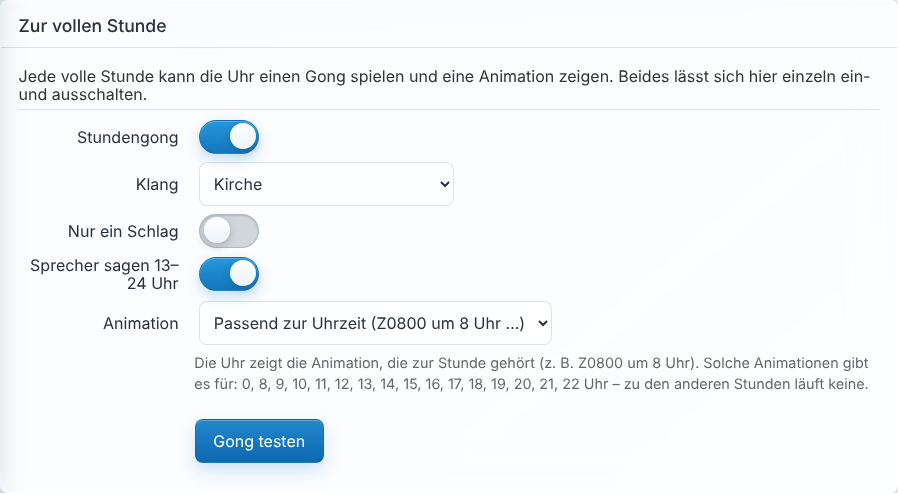
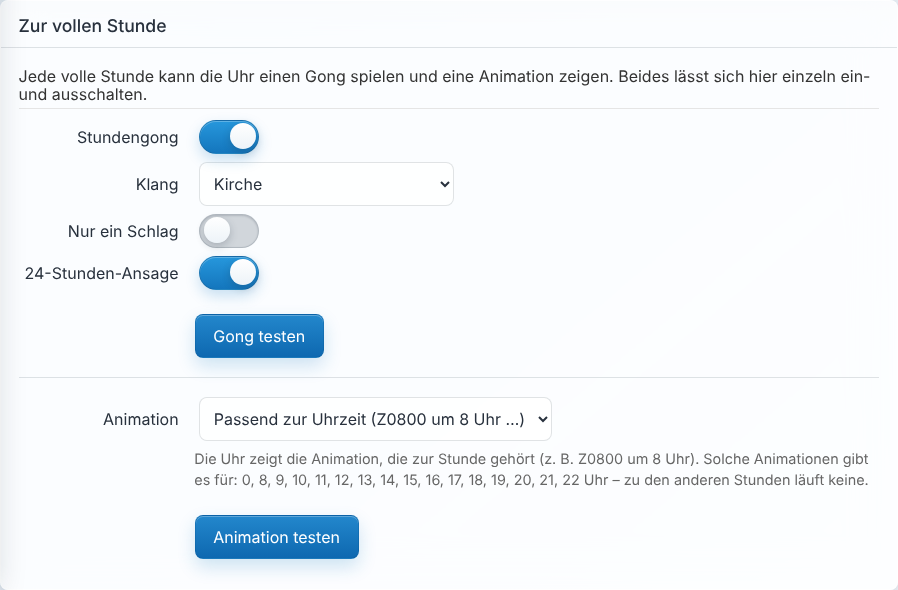
Web page: test button for the hour animation, explanations for preview and wording, nicer line breaks
- "Zur vollen Stunde": "Gong testen" directly below the chime settings,
  new "Animation testen" (plays the time animation of the current or next
  hour, a random one or the chosen one).
- "Vorschau" (transition demo) explains what it does.
- Anzeigeoptionen: box "Formulierung" explains the "ES IST" setting and
  the option names are clearer.
- Labels break between words instead of hyphenating inside words.

Claude-Session: https://claude.ai/code/session_01DqzQTeCT8MH2TeMSjuhRLQ

diff --git a/webpage/index.html b/webpage/index.html
@@ -506,6 +506,7 @@
                         <div class="pure-control-group">
                             <label for="transition-demo" data-i18next="functions.transition.demo.label"></label>
                             <input type="checkbox" id="transition-demo" >
+                            <span class="inline-hint" data-i18next="functions.transition.demo.help"></span>
                         </div>
                         </fieldset>
                     </form>
@@ -542,13 +543,16 @@
                                     <span class="slider round"></span>
                                 </label>
                             </div>
-                            <div class="pure-control-group">
+                            <div class="pure-controls hour-chime-option">
+                                <button type="button" id="hour-chime-test" class="pure-button" data-i18next="extras.hour.test"></button>
+                            </div>
+                            <div class="pure-control-group group-start">
                                 <label for="hour-animation" data-i18next="extras.hour.animation"></label>
                                 <select id="hour-animation" class="extras-setting" size="1"></select>
                             </div>
                             <p class="extras-hint" id="hour-animation-help"></p>
                             <div class="pure-controls">
-                                <button type="button" id="hour-chime-test" class="pure-button" data-i18next="extras.hour.test"></button>
+                                <button type="button" id="hour-animation-test" class="pure-button" data-i18next="extras.hour.test-animation"></button>
                             </div>
                         </fieldset>
                     </form>
@@ -773,6 +777,7 @@
                 <div class="box">
                     <h2 data-i18next="view.language.h2"></h2>
                     <form class="pure-form pure-form-aligned">
+                        <p class="box-help" data-i18next="view.language.help"></p>
                         <div class="pure-control-group">
                             <div class="pure-control-group">
                                 <label for="it-is-variant" data-i18next="view.language.hide-it-is"></label><select name="it-is-variant" id="it-is-variant" size="1">

diff --git a/webpage/language/de.js b/webpage/language/de.js
@@ -107,7 +107,8 @@ let TRANSLATION_DE_DE = {
 				"label": "Geschwindigkeit"
 			},
 			"demo": {
-				"label": "Vorschau"
+				"label": "Vorschau",
+				"help": "Die Uhr springt alle 2 Sekunden 5 Minuten weiter, damit man den Übergang ansehen kann. Danach wieder ausschalten."
 			}
 		},
 		"settings": {
@@ -178,13 +179,14 @@ let TRANSLATION_DE_DE = {
 			"quadRes": "Je vier LEDs pro Buchstabe"
 		},
 		"language": {
-			"h2": "Sprache",
-			"hide-it-is": "„'Es ist' Anzeige“",
+			"h2": "Formulierung",
+			"help": "Wie die Uhrzeit in Worten angezeigt wird: wann „ES IST“ mitleuchtet (immer, nur zur Viertel-, halben oder vollen Stunde oder nie) und wie z. B. 9:15 heißt. Mit Gong und Animation zur vollen Stunde (Funktionen) hat das nichts zu tun.",
+			"hide-it-is": "„ES IST“ anzeigen",
 			"it-is-off": "Aus",
-			"it-is-hourly": "Stündlich",
-			"it-is-half-hourly": "Halbstündlich",
-			"it-is-quarterly": "Viertelstündlich",
-			"it-is-permanent": "Permanent",
+			"it-is-hourly": "Nur zur vollen Stunde",
+			"it-is-half-hourly": "Zur vollen und halben Stunde",
+			"it-is-quarterly": "Zu jeder Viertelstunde",
+			"it-is-permanent": "Immer",
 			"at-nine-fifteen": "Um 9:15 ist es ...",
 			"quarter-past-nine": "viertel nach neun",
 			"quarter-nine": "viertel zehn",
@@ -416,7 +418,7 @@ let TRANSLATION_DE_DE = {
 			"sound": "Klang",
 			"per-weekday": "Pro Wochentag verschieden",
 			"single": "Nur ein Schlag",
-			"voice24h": "Sprecher sagen 13–24 Uhr",
+			"voice24h": "24-Stunden-Ansage",
 			"animation": "Animation",
 			"off": "Aus",
 			"time-animations": "Passend zur Uhrzeit (Z0800 um 8 Uhr …)",
@@ -426,7 +428,9 @@ let TRANSLATION_DE_DE = {
 			"help-time": "Die Uhr zeigt die Animation, die zur Stunde gehört (z. B. Z0800 um 8 Uhr). Solche Animationen gibt es für: {hours} Uhr – zu den anderen Stunden läuft keine.",
 			"help-random": "Jede volle Stunde eine zufällige Animation (ohne die Uhrzeit-Animationen).",
 			"help-fixed": "Jede volle Stunde läuft diese Animation.",
-			"test": "Gong testen"
+			"test": "Gong testen",
+			"test-animation": "Animation testen",
+			"testing": "Teste {name}"
 		},
 		"play": {
 			"h2": "Animationen & Ansagen",

diff --git a/webpage/language/en.js b/webpage/language/en.js
@@ -107,7 +107,8 @@ let TRANSLATION_EN_US = {
 				"label": "Speed"
 			},
 			"demo": {
-				"label": "Preview"
+				"label": "Preview",
+				"help": "The clock jumps ahead 5 minutes every 2 seconds so you can watch the transition. Switch it off afterwards."
 			}
 		},
 		"settings": {
@@ -178,13 +179,14 @@ let TRANSLATION_EN_US = {
 			"quadRes": "Four LEDs per letter"
 		},
 		"language": {
-			"h2": "Language",
-			"hide-it-is": "„Display 'It is'“",
+			"h2": "Wording",
+			"help": "How the time is written in words: when “IT IS” lights up (always, only at the quarter, half or full hour, or never) and how e.g. 9:15 is said. This is not related to the chime and animation at the full hour (Functions).",
+			"hide-it-is": "Show “IT IS”",
 			"it-is-off": "Off",
-			"it-is-hourly": "Hourly",
-			"it-is-half-hourly": "Half-hourly",
-			"it-is-quarterly": "Quarterly",
-			"it-is-permanent": "Permanent",
+			"it-is-hourly": "Only at the full hour",
+			"it-is-half-hourly": "At the full and half hour",
+			"it-is-quarterly": "Every quarter hour",
+			"it-is-permanent": "Always",
 			"at-nine-fifteen": "On 9:15 It Is ...",
 			"quarter-past-nine": "Quarter Past Nine", // German: viertel nach neun
 			"quarter-nine": "Quarter Ten", // German: viertel zehn
@@ -416,7 +418,7 @@ let TRANSLATION_EN_US = {
 			"sound": "Sound",
 			"per-weekday": "Different per weekday",
 			"single": "Single stroke only",
-			"voice24h": "Speakers use 24-hour format",
+			"voice24h": "24-hour announcement",
 			"animation": "Animation",
 			"off": "Off",
 			"time-animations": "Matching the time (Z0800 at 8 o'clock …)",
@@ -426,7 +428,9 @@ let TRANSLATION_EN_US = {
 			"help-time": "The clock shows the animation that belongs to the hour (e.g. Z0800 at 8 o'clock). Such animations exist for: {hours} o'clock – at the other hours none is shown.",
 			"help-random": "A random animation every full hour (without the time animations).",
 			"help-fixed": "This animation is shown every full hour.",
-			"test": "Test chime"
+			"test": "Test chime",
+			"test-animation": "Test animation",
+			"testing": "Testing {name}"
 		},
 		"play": {
 			"h2": "Animations & announcements",

diff --git a/webpage/extras.js b/webpage/extras.js
@@ -258,8 +258,27 @@
 		byId("hour-animation-help").textContent = text;
 	}
 
+	// Animation that "Animation testen" plays for the current selection
+	function hourAnimationToTest() {
+		const value = byId("hour-animation").value;
+		const names = extrasData ? extrasData.animations : [];
+		if (value === "Z") {
+			// the time animation of the current hour, otherwise the next one
+			const timeAnimations = names.filter(name => /^Z\d\d00$/.test(name) && name !== "Z0000");
+			const hour = new Date().getHours();
+			const next = timeAnimations.find(name => Number(name.substr(1, 2)) >= hour);
+			return next || timeAnimations[0] || "";
+		}
+		if (value === "*") {
+			const pool = names.filter(name => !/^Z\d{4}$/.test(name));
+			return pool.length ? pool[Math.floor(Math.random() * pool.length)] : "";
+		}
+		return value;
+	}
+
 	function updateHourVisibility() {
 		updateHourAnimationHelp();
+		byId("hour-animation-test").disabled = byId("hour-animation").value === "";
 		const chimeOn = byId("hour-chime").checked;
 		document.querySelectorAll(".hour-chime-option").forEach(el => el.classList.toggle("extras-collapsed", !chimeOn));
 		const perWeekday = Number(byId("hour-chime-sound").value) < 0;
@@ -578,6 +597,13 @@
 		});
 
 		byId("hour-chime-test").addEventListener("click", () => apiCall("/announce?what=chime"));
+		byId("hour-animation-test").addEventListener("click", () => {
+			const name = hourAnimationToTest();
+			if (name) {
+				showToast(tr("extras.hour.testing").replace("{name}", animationLabel(name)));
+				apiCall(`/animation?name=${encodeURIComponent(name)}`);
+			}
+		});
 		byId("play-animation-button").addEventListener("click", () => {
 			apiCall(`/animation?name=${encodeURIComponent(byId("play-animation").value)}`);
 		});

diff --git a/webpage/style.css b/webpage/style.css
@@ -1078,6 +1078,34 @@ label.pure-button {
     background: var(--app-surface-solid);
 }
 
+/* Labels: break between words, not inside them ("spie-geln") */
+.pure-form-aligned .pure-control-group label {
+	hyphens: manual;
+	overflow-wrap: break-word;
+}
+
+.group-start {
+	margin-top: 1.2em;
+	padding-top: 1.2em;
+	border-top: 1px solid var(--app-border);
+}
+
+.inline-hint {
+	display: inline-block;
+	max-width: 26em;
+	margin-left: 0.6em;
+	font-size: 0.9em;
+	color: #666;
+	vertical-align: middle;
+}
+
+.box-help {
+	margin: 0 0 1em;
+	padding-bottom: 0.6em;
+	border-bottom: 1px solid var(--app-border);
+	color: #333;
+}
+
 .extras-hint {
 	margin: 0.2em 0 0.8em 12.2em;
 	font-size: 0.9em;

diff --git a/README.md b/README.md
@@ -31,8 +31,9 @@ Die Erweiterungen sind in die bestehenden Seiten der Uhr eingebaut, Änderungen 
 
 | Wo | Was |
 |---|---|
-| **Funktionen → Übergang** | wie die Buchstaben wechseln, wenn sich die Uhrzeit ändert (alle 5 Minuten): Überblenden, Matrix-Regen … („Keines“ = sofort). Gehört zum Original-Projekt. |
-| **Funktionen → Zur vollen Stunde** | Stundengong (Klang, auch pro Wochentag) und Animation zur vollen Stunde – beides einzeln ein/aus |
+| **Funktionen → Übergang** | wie die Buchstaben wechseln, wenn sich die Uhrzeit ändert (alle 5 Minuten): Überblenden, Matrix-Regen … („Keines“ = sofort); „Vorschau“ lässt die Uhr zum Ansehen schnell vorlaufen. Gehört zum Original-Projekt. |
+| **Funktionen → Zur vollen Stunde** | Stundengong (Klang, auch pro Wochentag) und Animation zur vollen Stunde – beides einzeln ein/aus und zum Testen |
+| **Anzeigeoptionen → Formulierung** | wann „ES IST“ mitleuchtet und wie z. B. 9:15 heißt (Original-Projekt) |
 | **Funktionen → Animationen & Ansagen** | Animationen und Töne abspielen, Uhrzeit, Datum und Raumklima ansagen |
 | **Ereignisse** | Geburtstage, Feiertage usw.; „events.json importieren“ übernimmt die Ereignisse der alten Uhr |
 | **Farben → Automatischer Farbwechsel** | neue Farbe in festen Abständen oder fließend |
